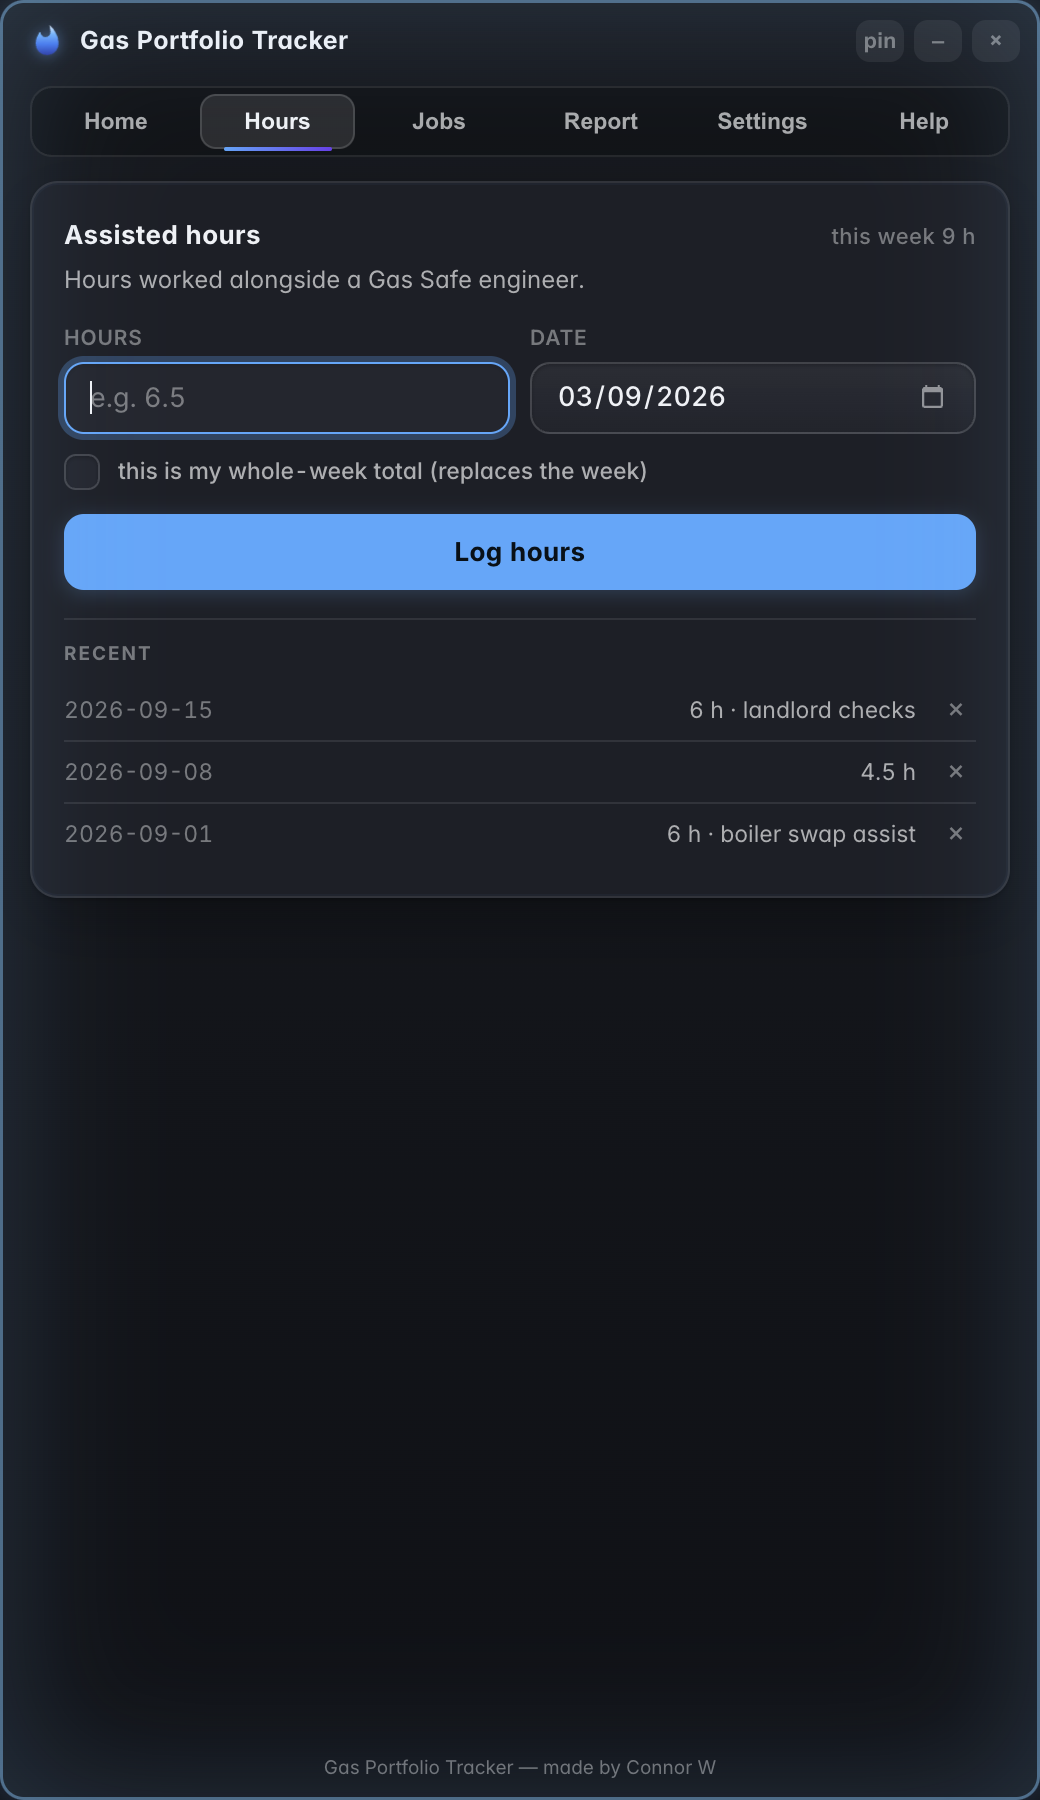
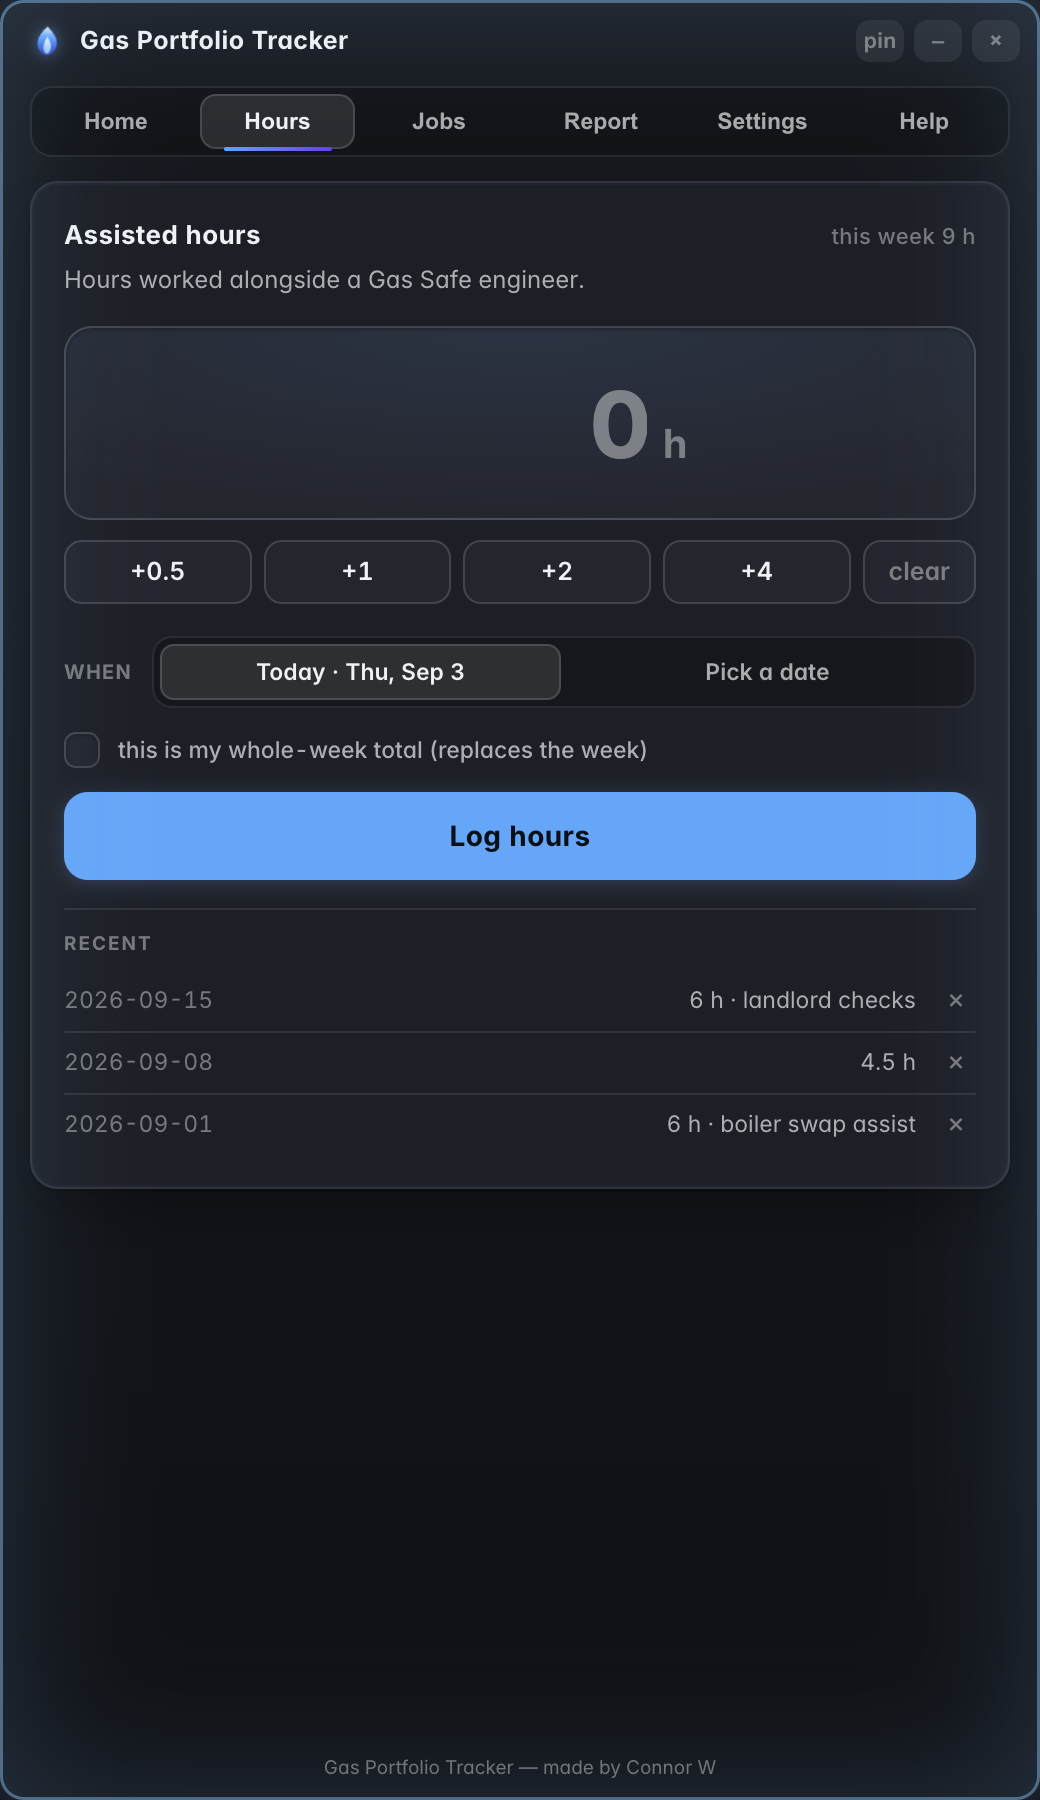
v2 follow-ups: new flame shape in-app, deliberate hours logger
- swap the in-app flame silhouette (titlebar, splash, home hero, widget, PDF)
  to the new mark: clean teardrop + bright inner cone, matching the app icon;
  add flameCone gradient
- Hours tab reworked: big value display, +0.5/+1/+2/+4/clear steppers,
  Today / pick-a-date segmented control, live "Log N h" button label
- tighten hours value panel; Settings pane verified with the new inputs

diff --git a/src/renderer.js b/src/renderer.js
@@ -85,7 +85,7 @@ function buildReport(d, s) {
   };
 
   const flame = `<svg width="30" height="35" viewBox="0 0 24 24" style="flex:none">` +
-    `<path fill="#ffffff" d="M13.5.67s.74 2.65.74 4.8c0 2.06-1.35 3.73-3.41 3.73-2.07 0-3.63-1.67-3.63-3.73l.03-.36C5.21 7.51 4 10.62 4 14c0 4.42 3.58 8 8 8s8-3.58 8-8C20 8.61 17.41 3.8 13.5.67z"/></svg>`;
+    `<path fill="#ffffff" d="M12.3 1.7C15.9 6 18.7 9.1 18.7 13.1 18.7 18.1 15.5 21.8 12 22.3 8.5 21.8 5.3 18.4 5.3 13 5.3 8.6 8.7 4.7 12.3 1.7Z"/></svg>`;
   const goalPct = Math.max(1.5, Math.min(100, s.pctGoal));
   const markPct = Math.max(0, Math.min(100, s.requiredMark));
 
@@ -392,7 +392,7 @@ function homePane(s) {
     `<span class="${v > 0 ? "ok" : "dim"}" data-cov="${kind}:${k}">${cap1(k)}</span>`).join('<span class="dim"> &middot; </span>');
   el.innerHTML = `
     <div class="hsec hero">
-      <svg class="flame md" viewBox="0 0 24 24"><path d="M13.5.67s.74 2.65.74 4.8c0 2.06-1.35 3.73-3.41 3.73-2.07 0-3.63-1.67-3.63-3.73l.03-.36C5.21 7.51 4 10.62 4 14c0 4.42 3.58 8 8 8s8-3.58 8-8C20 8.61 17.41 3.8 13.5.67z" fill="url(#flameGrad)"/></svg>
+      <svg class="flame md" viewBox="0 0 24 24"><path d="M12.3 1.7C15.9 6 18.7 9.1 18.7 13.1 18.7 18.1 15.5 21.8 12 22.3 8.5 21.8 5.3 18.4 5.3 13 5.3 8.6 8.7 4.7 12.3 1.7Z" fill="url(#flameGrad)"/><path d="M12 9C13.7 11.8 14.6 13.8 14.6 16 14.6 19 13.2 20.9 12 21.1 10.6 20.9 9.4 19 9.4 16.3 9.4 13.9 10.6 11.7 12 9Z" fill="url(#flameCone)" opacity="0.92"/></svg>
       <div class="hcap">Progress</div>
       <div class="stat"><span class="v" data-to="${s.total}">0</span><small> / ${s.goal} h</small></div>
       <div class="bar"><i style="--w:${Math.max(3, s.pctGoal)}%"></i><b style="left:${s.requiredMark}%"></b></div>
@@ -475,15 +475,36 @@ function hoursPane(s) {
   const recent = data.hours.map((r, i) => ({ r, i })).slice(-10).reverse().map(({ r, i }) =>
     `<li><span class="li-d">${esc(r.date)}</span><span class="li-v">${r.h} h${r.note ? " &middot; " + esc(r.note) : ""}</span>` +
     `<button class="del" data-arr="hours" data-i="${i}" title="delete">&times;</button></li>`).join("");
+  const today = todayISO();
+  const todayLabel = new Date().toLocaleDateString(undefined, { weekday: "short", day: "numeric", month: "short" });
   el.innerHTML = `
     <h3>Assisted hours <span class="h3-r">this week ${s.weekLogged} h</span></h3>
     <p class="dim">Hours worked alongside a Gas&nbsp;Safe engineer.</p>
-    <div class="form2">
-      <label>Hours<input type="number" id="ah" step="0.5" min="0" inputmode="decimal" placeholder="e.g. 6.5"></label>
-      <label>Date<input type="date" id="ad" value="${todayISO()}"></label>
+
+    <div class="bighours">
+      <input type="number" id="ah" step="0.5" min="0" inputmode="decimal" placeholder="0" aria-label="Hours">
+      <span class="u">h</span>
     </div>
+    <div class="hstep">
+      <button type="button" data-add="0.5">+0.5</button>
+      <button type="button" data-add="1">+1</button>
+      <button type="button" data-add="2">+2</button>
+      <button type="button" data-add="4">+4</button>
+      <button type="button" data-add="clear" class="ghost">clear</button>
+    </div>
+
+    <div class="whenrow">
+      <span class="wl">When</span>
+      <div class="seg2" id="when">
+        <button type="button" data-when="today" class="on">Today &middot; ${todayLabel}</button>
+        <button type="button" data-when="pick">Pick a date</button>
+      </div>
+    </div>
+    <input type="date" id="ad" value="${today}" max="${today}" hidden>
+
     <label class="chk"><input type="checkbox" id="awk"> this is my whole-week total (replaces the week)</label>
-    <button class="btn" id="ahlog">Log hours</button>
+    <button class="btn big" id="ahlog">Log hours</button>
+
     <div class="listwrap">
       <div class="list-h">Recent</div>
       <ul class="list">${recent || '<li class="empty">nothing logged yet</li>'}</ul>
@@ -757,12 +778,38 @@ function wire(s) {
     b.addEventListener("click", () => removeEntry(b.dataset.arr, parseInt(b.dataset.i, 10))));
   if (tab === "assisted") {
     const h = document.getElementById("ah");
-    const go = () => {
-      if (document.getElementById("awk").checked) setWeekTotal(h.value);
-      else addHours(h.value, document.getElementById("ad").value);
+    const btn = document.getElementById("ahlog");
+    const wk = document.getElementById("awk");
+    const dateEl = document.getElementById("ad");
+    const r1 = (n) => Math.round(n * 10) / 10;
+    const val = () => { const n = Number(h.value); return isNaN(n) ? 0 : n; };
+    const syncBtn = () => {
+      const v = val();
+      btn.textContent = wk.checked
+        ? (v > 0 ? `Set week to ${r1(v)} h` : "Set week total")
+        : (v > 0 ? `Log ${r1(v)} h` : "Log hours");
     };
-    document.getElementById("ahlog").onclick = go;
+    const go = () => {
+      if (wk.checked) setWeekTotal(h.value);
+      else addHours(h.value, dateEl.value);
+    };
+    app.querySelectorAll("[data-add]").forEach((b) => b.addEventListener("click", () => {
+      if (b.dataset.add === "clear") h.value = "";
+      else h.value = r1(Math.max(0, val() + Number(b.dataset.add)));
+      syncBtn(); h.focus({ preventScroll: true });
+    }));
+    app.querySelectorAll("#when button").forEach((b) => b.addEventListener("click", () => {
+      app.querySelectorAll("#when button").forEach((x) => x.classList.toggle("on", x === b));
+      const pick = b.dataset.when === "pick";
+      dateEl.hidden = !pick;
+      if (!pick) dateEl.value = todayISO();
+      if (pick) dateEl.showPicker ? dateEl.showPicker() : dateEl.focus();
+    }));
+    h.addEventListener("input", syncBtn);
+    wk.addEventListener("change", syncBtn);
+    btn.onclick = go;
     h.addEventListener("keydown", (e) => { if (e.key === "Enter") go(); });
+    syncBtn();
     h.focus({ preventScroll: true });
   }
 

diff --git a/src/style.css b/src/style.css
@@ -758,3 +758,61 @@ main > .card:nth-of-type(2) { animation-delay: 0.05s; }
 /* flame licks a touch livelier */
 .flame { animation-duration: 3.4s; }
 .home .flame.md { filter: drop-shadow(0 0 14px rgba(78,168,255,0.45)); }
+
+/* ---------- hours logger (v2 — the deliberate version) ---------- */
+.bighours {
+  position: relative;
+  display: flex; align-items: baseline; justify-content: center; gap: 8px;
+  margin: 14px 0 10px;
+  padding: 14px 16px 12px;
+  border-radius: 14px;
+  background:
+    radial-gradient(120% 140% at 50% 0%, rgba(78,168,255,0.10), transparent 70%),
+    var(--surface-2);
+  border: 1px solid var(--line-2);
+  box-shadow: inset 0 1px 2px rgba(0,0,0,0.25);
+}
+.bighours input {
+  -webkit-appearance: none; appearance: none;
+  width: 3.2em; min-width: 0;
+  height: auto; padding: 0; border: 0; background: transparent; box-shadow: none;
+  font-size: 46px; font-weight: 800; letter-spacing: -1.5px; text-align: right;
+  color: var(--ink);
+}
+.bighours input:focus { box-shadow: none; }
+.bighours input::placeholder { color: var(--ink-3); font-weight: 800; }
+.bighours .u { font-size: 20px; font-weight: 700; color: var(--ink-3); }
+
+.hstep { display: flex; gap: 6px; margin-bottom: 16px; }
+.hstep button {
+  flex: 1; height: 32px; padding: 0; border-radius: 9px;
+  border: 1px solid var(--line-2); background: var(--surface-2); color: var(--ink);
+  font: inherit; font-size: 12.5px; font-weight: 600; cursor: pointer;
+  transition: background 0.12s, border-color 0.12s, transform 0.06s, box-shadow 0.14s;
+}
+.hstep button:hover { border-color: var(--accent); background: rgba(78,168,255,0.10); }
+.hstep button:active { transform: translateY(1px) scale(0.97); }
+.hstep button.ghost { flex: 0 0 auto; padding: 0 12px; color: var(--ink-3); }
+.hstep button.ghost:hover { color: var(--ink); background: rgba(255,255,255,0.06); border-color: var(--line-2); }
+
+.whenrow { display: flex; align-items: center; gap: 10px; margin-bottom: 12px; }
+.whenrow .wl {
+  font-size: 10px; font-weight: 700; letter-spacing: 0.6px; text-transform: uppercase;
+  color: var(--ink-3); flex: none;
+}
+.seg2 {
+  flex: 1; display: flex; gap: 3px; padding: 3px;
+  background: rgba(0,0,0,0.25); border: 1px solid var(--line); border-radius: 10px;
+}
+.seg2 button {
+  flex: 1; height: 28px; border: 0; border-radius: 7px; background: transparent;
+  color: var(--ink-2); font: inherit; font-size: 11.5px; font-weight: 600; cursor: pointer;
+  transition: background 0.14s, color 0.14s;
+}
+.seg2 button:hover { color: var(--ink); }
+.seg2 button.on { background: rgba(255,255,255,0.10); color: var(--ink); box-shadow: inset 0 0 0 1px var(--line-2); }
+
+#ad[hidden] { display: none !important; }
+#ad { margin-bottom: 12px; }
+
+.btn.big { height: 44px; font-size: 14px; font-weight: 700; border-radius: 12px; }

diff --git a/src/index.html b/src/index.html
@@ -15,12 +15,16 @@
         <stop offset="0.70" stop-color="#5cb4ff" />
         <stop offset="1" stop-color="#eaf5ff" />
       </linearGradient>
+      <linearGradient id="flameCone" x1="0" y1="1" x2="0" y2="0">
+        <stop offset="0" stop-color="#84cbff" />
+        <stop offset="1" stop-color="#ffffff" />
+      </linearGradient>
     </defs>
   </svg>
 
   <div id="splash">
     <div class="splash-mark">
-      <svg class="flame xl" viewBox="0 0 24 24"><path d="M13.5.67s.74 2.65.74 4.8c0 2.06-1.35 3.73-3.41 3.73-2.07 0-3.63-1.67-3.63-3.73l.03-.36C5.21 7.51 4 10.62 4 14c0 4.42 3.58 8 8 8s8-3.58 8-8C20 8.61 17.41 3.8 13.5.67z" fill="url(#flameGrad)"/></svg>
+      <svg class="flame xl" viewBox="0 0 24 24"><path d="M12.3 1.7C15.9 6 18.7 9.1 18.7 13.1 18.7 18.1 15.5 21.8 12 22.3 8.5 21.8 5.3 18.4 5.3 13 5.3 8.6 8.7 4.7 12.3 1.7Z" fill="url(#flameGrad)"/><path d="M12 9C13.7 11.8 14.6 13.8 14.6 16 14.6 19 13.2 20.9 12 21.1 10.6 20.9 9.4 19 9.4 16.3 9.4 13.9 10.6 11.7 12 9Z" fill="url(#flameCone)" opacity="0.92"/></svg>
     </div>
     <div class="splash-name">Gas Portfolio Tracker</div>
     <div class="splash-sub">made by Connor W</div>
@@ -28,7 +32,7 @@
 
   <header class="titlebar">
     <span class="tb-title">
-      <svg class="flame" viewBox="0 0 24 24"><path d="M13.5.67s.74 2.65.74 4.8c0 2.06-1.35 3.73-3.41 3.73-2.07 0-3.63-1.67-3.63-3.73l.03-.36C5.21 7.51 4 10.62 4 14c0 4.42 3.58 8 8 8s8-3.58 8-8C20 8.61 17.41 3.8 13.5.67z" fill="url(#flameGrad)"/></svg>
+      <svg class="flame" viewBox="0 0 24 24"><path d="M12.3 1.7C15.9 6 18.7 9.1 18.7 13.1 18.7 18.1 15.5 21.8 12 22.3 8.5 21.8 5.3 18.4 5.3 13 5.3 8.6 8.7 4.7 12.3 1.7Z" fill="url(#flameGrad)"/><path d="M12 9C13.7 11.8 14.6 13.8 14.6 16 14.6 19 13.2 20.9 12 21.1 10.6 20.9 9.4 19 9.4 16.3 9.4 13.9 10.6 11.7 12 9Z" fill="url(#flameCone)" opacity="0.92"/></svg>
       Gas Portfolio Tracker
     </span>
     <div class="tb-btns">

diff --git a/src/widget.html b/src/widget.html
@@ -81,12 +81,16 @@
         <stop offset="0.70" stop-color="#5cb4ff" />
         <stop offset="1" stop-color="#eaf5ff" />
       </linearGradient>
+      <linearGradient id="flameCone" x1="0" y1="1" x2="0" y2="0">
+        <stop offset="0" stop-color="#84cbff" />
+        <stop offset="1" stop-color="#ffffff" />
+      </linearGradient>
     </defs>
   </svg>
 
   <div class="glass" id="card">
     <span class="brand">
-      <svg class="flame" viewBox="0 0 24 24"><path d="M13.5.67s.74 2.65.74 4.8c0 2.06-1.35 3.73-3.41 3.73-2.07 0-3.63-1.67-3.63-3.73l.03-.36C5.21 7.51 4 10.62 4 14c0 4.42 3.58 8 8 8s8-3.58 8-8C20 8.61 17.41 3.8 13.5.67z" fill="url(#flameGrad)"/></svg>
+      <svg class="flame" viewBox="0 0 24 24"><path d="M12.3 1.7C15.9 6 18.7 9.1 18.7 13.1 18.7 18.1 15.5 21.8 12 22.3 8.5 21.8 5.3 18.4 5.3 13 5.3 8.6 8.7 4.7 12.3 1.7Z" fill="url(#flameGrad)"/><path d="M12 9C13.7 11.8 14.6 13.8 14.6 16 14.6 19 13.2 20.9 12 21.1 10.6 20.9 9.4 19 9.4 16.3 9.4 13.9 10.6 11.7 12 9Z" fill="url(#flameCone)" opacity="0.92"/></svg>
       Gas Portfolio
     </span>
 
